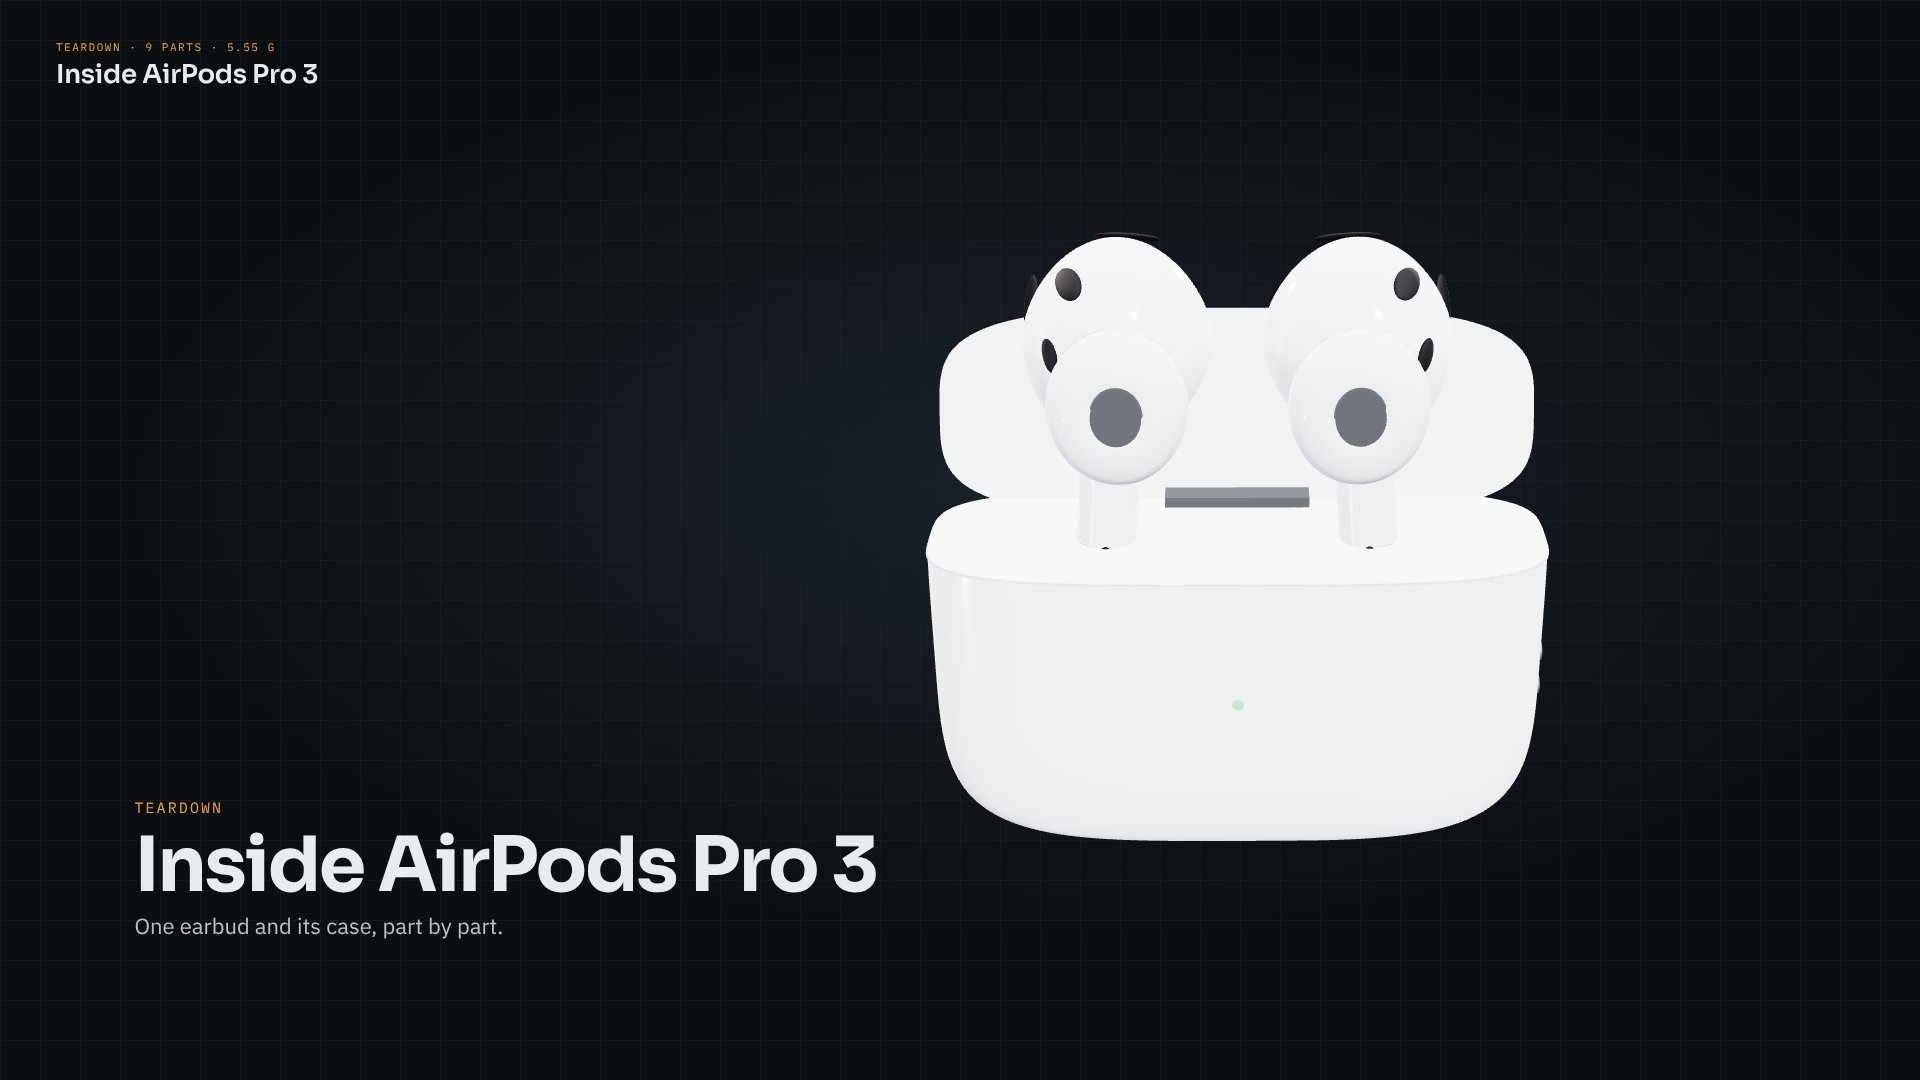
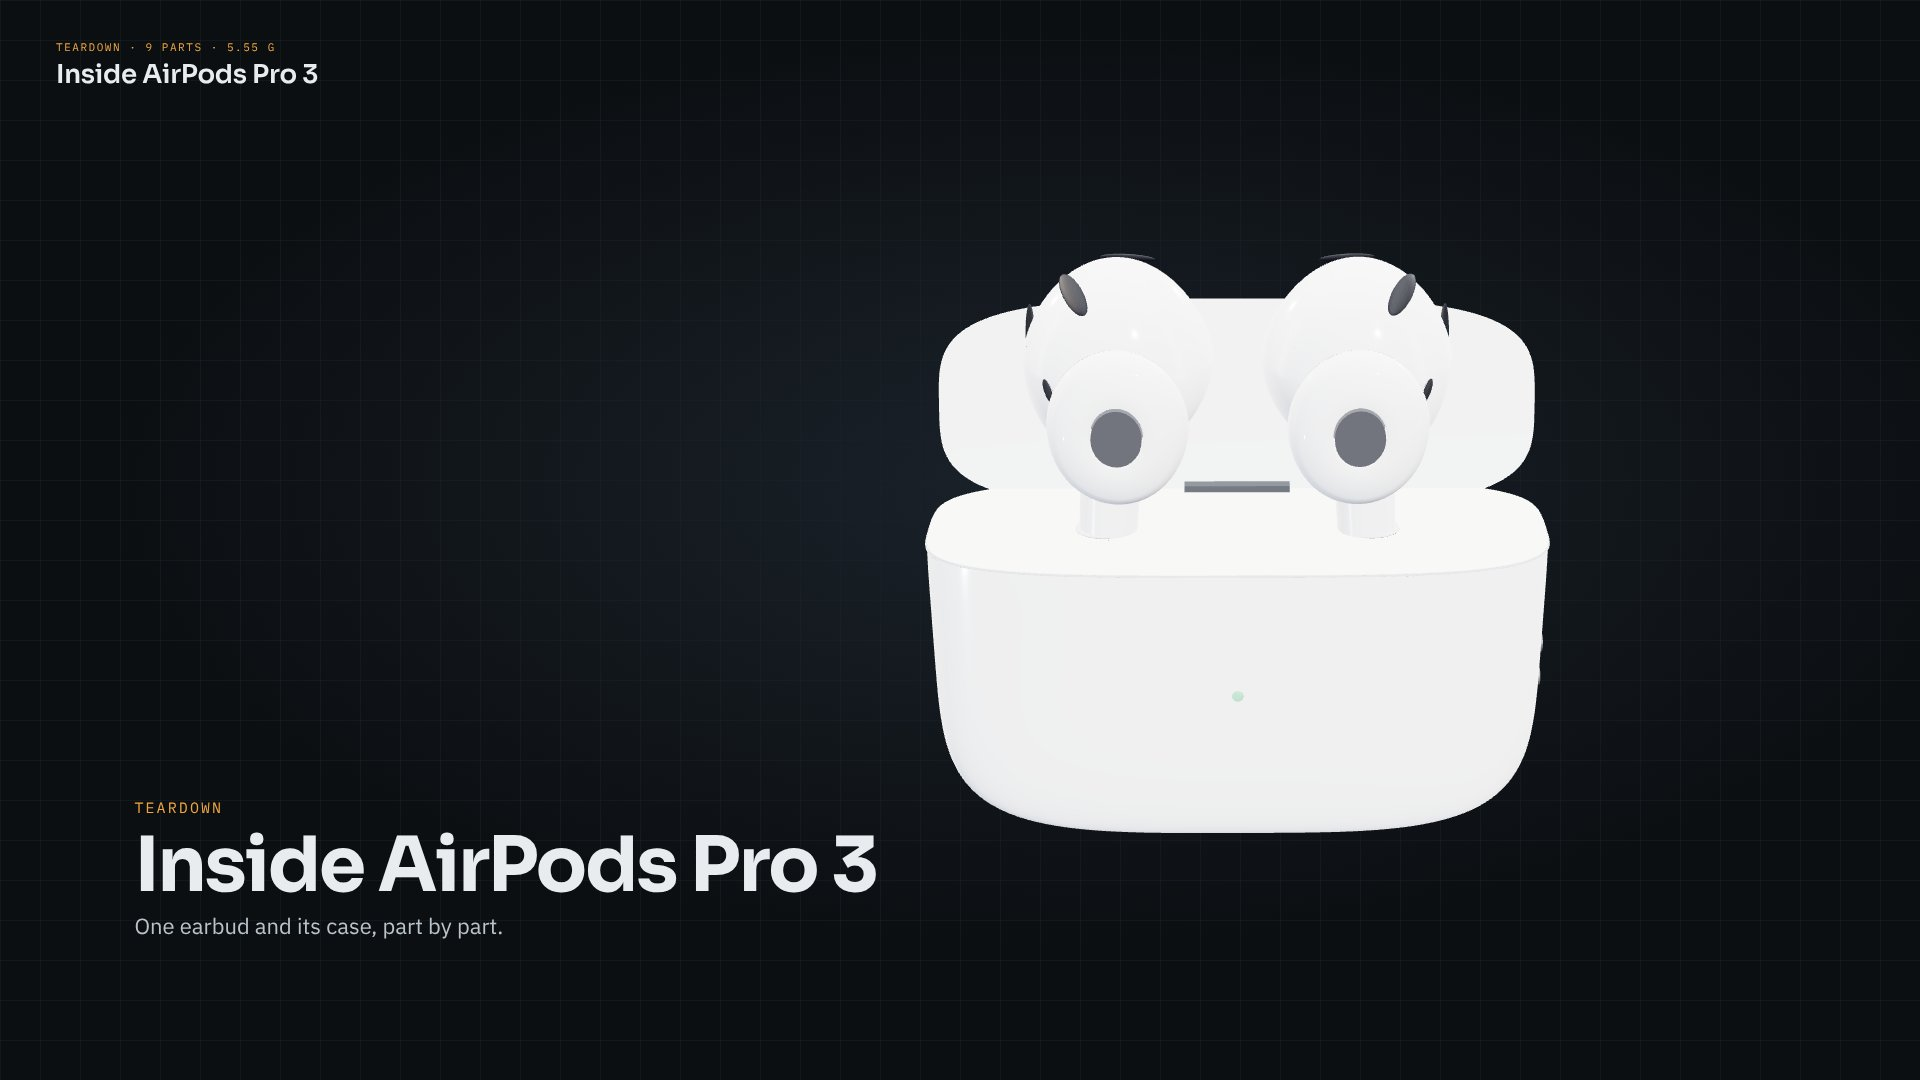
AirPods Pro 3 explorer: true 30.9 mm bud height, mesh-pill grilles, stem fillet, slimmer tip ring and hinge
Claude-Session: https://claude.ai/code/session_01GXcKc2DgGjDxQqSNnxqxZ7

diff --git a/phone-teardown/airpods-pro-3-teardown.html b/phone-teardown/airpods-pro-3-teardown.html
@@ -361,16 +361,16 @@ const GRILLE = () => std(0x1a1b1f, 0.4, 0.55);
 const GOLD = () => std(0xd2a94e, 1, 0.3);
 const FLEX = () => std(0xd99a3a, 0.15, 0.45, { side: THREE.DoubleSide });
 const SILVER = () => std(0xd5d9de, 1, 0.16);
-const meshTex = canvasTex(256, 256, (x, w, h) => { x.fillStyle = '#121316'; x.fillRect(0, 0, w, h); x.fillStyle = '#3a3c42'; for (let j = 0; j < 32; j++) for (let i = 0; i < 32; i++) { x.beginPath(); x.arc(i * 8 + (j % 2) * 4 + 2, j * 8 + 2, 1.6, 0, Math.PI * 2); x.fill(); } });
+const meshTex = canvasTex(256, 256, (x, w, h) => { x.fillStyle = '#26282d'; x.fillRect(0, 0, w, h); x.fillStyle = '#4d5058'; for (let j = 0; j < 32; j++) for (let i = 0; i < 32; i++) { x.beginPath(); x.arc(i * 8 + (j % 2) * 4 + 2, j * 8 + 2, 1.6, 0, Math.PI * 2); x.fill(); } });
 meshTex.wrapS = meshTex.wrapT = THREE.RepeatWrapping; meshTex.repeat.set(2, 2);
-const MESH = () => std(0xffffff, 0.3, 0.6, { map: meshTex });
+const MESH = () => std(0xd8dade, 0.25, 0.55, { map: meshTex });
 
 /* lid + bud controls */
 const CTRL = { lid: 1, lidGoal: 1, out: 1, outGoal: 1 };
 { const q = new URLSearchParams(location.search).get('state') || ''; if (q.includes('closed')) CTRL.lid = CTRL.lidGoal = 0; if (q.includes('in')) CTRL.out = CTRL.outGoal = 0; }
 let LID_HINGE = null, LEFT_BUD = null, LEFT_X = 0, LEFT_Y = 0, LEFT_Z = 0;
 const BUD_IDS = new Set(['tip', 'sensor', 'driver', 'shell', 'board', 'battery', 'stem']);
-const BUD_DROP = -18, BUD_TURN = 0.95, BUD_TILT = 0.8, BUD_BACK = -3.5;
+const BUD_DROP = -16, BUD_TURN = 0.95, BUD_TILT = 0.8, BUD_BACK = -3.5;
 const _q = new THREE.Quaternion(), _e = new THREE.Euler(), _pv = new THREE.Vector3();
 function rotAbout(obj, pivot, ex, ey) {   // rotate obj about a pivot given in its own (unrotated) frame
   _q.setFromEuler(_e.set(ex, ey, 0)); obj.quaternion.copy(_q);
@@ -405,26 +405,27 @@ function patch(parent, dir, sx, sy, mat, rot = 0) {
 }
 /* stem frame: top tucked into the head, leaning down and slightly forward */
 function stemFrame(parent) { const f = new THREE.Group(); f.position.set(0.6, HEAD.y - 5.0, 0.6); f.rotation.set(-0.05, 0, 0.06); parent.add(f); return f; }
-const STEM_L = 20.5;
+const STEM_L = 17.0;   // total bud height ≈ 30.9 mm, per Apple's spec
 function stemShell(f, mat) {
-  const prof = [[0.01, 0], [2.2, 0.05], [2.75, 0.6], [2.9, 2], [3.0, 10], [3.3, 16], [3.9, 19.6], [4.4, STEM_L + 1.5], [0.01, STEM_L + 1.5]];
+  const L = STEM_L, prof = [[0.01, 0], [2.2, 0.05], [2.75, 0.6], [2.9, 2], [3.0, 0.5 * L], [3.25, 0.78 * L], [3.9, L - 0.6], [4.4, L + 1.5], [0.01, L + 1.5]];
   const geo = new THREE.LatheGeometry(prof.map(([r, y]) => new THREE.Vector2(r, y)), 64); geo.translate(0, -STEM_L, 0);
   const m = mesh(geo, mat, 0, 0, 0, f); m.scale.set(1, 1, 0.84);
   const cap = yCyl(2.45, 0.5, SILVER(), 0, -STEM_L + 0.2, 0, f); cap.scale.set(1, 1, 0.84);
   ell(0.9, 0.3, 0.55, GRILLE(), 0, -STEM_L - 0.05, 0, f, 24);
-  const fm = ell(0.75, 1.3, 0.3, MESH(), 0, -STEM_L + 3.2, 2.48, f, 24);  // bottom mic port on the front
+  const fm = ell(0.55, 1.1, 0.3, MESH(), 0, -STEM_L + 2.6, 2.46, f, 24);  // bottom mic port on the front
   return m;
 }
 function budOuter(parent, withTip = true) {
   const w = WHITE();
   mesh(headGeo(), w, HEAD.x, HEAD.y, HEAD.z, parent);
   const noz = mesh(cyl(3.4, 4.0, 64), w, HEAD.x - 0.6, HEAD.y - 1.4, 8.6, parent); noz.scale.set(1, 1.15, 1);
-  const ring = mesh(cyl(3.55, 0.7, 64), SILVER(), HEAD.x - 0.6, HEAD.y - 1.4, 10.3, parent); ring.scale.set(1, 1.15, 1);
-  patch(parent, [0.42, 0.66, 0.5], 2.0, 1.25, MESH(), 0.6);      // top mic grille, top-front
-  patch(parent, [-0.1, 0.9, -0.42], 3.4, 1.7, MESH(), 0.15);      // rear grille
-  patch(parent, [0.92, 0.2, -0.32], 1.3, 3.8, MESH(), 0.2);       // side vent
-  patch(parent, [0.62, 0.05, 0.72], 0.9, 1.7, MESH(), -0.3);      // front vent by the nozzle
-  stemShell(stemFrame(parent), w);
+  const ring = mesh(cyl(3.5, 0.42, 64), std(0xc3c8ce, 0.9, 0.3), HEAD.x - 0.6, HEAD.y - 1.4, 10.4, parent); ring.scale.set(1, 1.15, 1);
+  patch(parent, [0.38, 0.72, 0.42], 3.1, 0.95, MESH(), 0.55);    // top mic grille, top-front
+  patch(parent, [-0.1, 0.88, -0.45], 2.8, 1.0, MESH(), 0.1);      // rear grille
+  patch(parent, [0.93, 0.12, -0.3], 0.75, 3.6, MESH(), 0.2);      // side vent, long thin pill
+  patch(parent, [0.66, -0.12, 0.7], 0.5, 1.3, MESH(), -0.35);     // small front vent by the nozzle
+  const sf = stemFrame(parent); stemShell(sf, w);
+  ell(4.0, 4.4, 3.5, w, 0, -0.6, 0.1, sf, 48);   // smooth fillet where the stem grows out of the head
   if (withTip) tipMesh(parent);
 }
 function tipMesh(parent) {
@@ -495,17 +496,17 @@ addPart('battery', [0, 4, -32], { az: 2.7, el: 0.35, k: 2.0 }, [0, 13.8, -5.6], 
 /* 7. Stem board: mics, touch strip, charging contacts (slides out the bottom) */
 addPart('stem', [3, -24, 0], { az: 0.6, el: 0.15, k: 1.5 }, [5.2, -10.5, 2.0], g => {
   const f = stemFrame(g);
-  mesh(extrude(rrShape(3.0, 17, 1.2), 0.8, 0.1, 12), std(0x10201a, 0.2, 0.42), 0, -9.5, -0.3, f);
+  mesh(extrude(rrShape(3.0, 13.5, 1.2), 0.8, 0.1, 12), std(0x10201a, 0.2, 0.42), 0, -7.9, -0.3, f);
   const can = std(0x9aa0a8, 1, 0.3);
-  mesh(cyl(0.9, 1.0, 24), can, 0, -16.6, 0.7, f); mesh(cyl(0.9, 1.0, 24), can, 0, -3.0, 0.7, f);
-  box(2.4, 9, 0.15, FLEX(), 0, -9.5, 0.95, f);
-    const mic = chipOn(f, 1.6, 1.6, 0.4, [['MIC', 60]], 0, -12.6, 0.45);
-  const contact = yCyl(1.8, 0.8, std(0xd8dde2, 1, 0.18), 0, -19.4, -0.2, f); contact.scale.set(1, 1, 0.75);
-  box(0.35, 15, 0.1, GOLD(), 1.15, -9.5, -0.75, f);
+  mesh(cyl(0.9, 1.0, 24), can, 0, -13.4, 0.7, f); mesh(cyl(0.9, 1.0, 24), can, 0, -2.6, 0.7, f);
+  box(2.4, 7.5, 0.15, FLEX(), 0, -7.9, 0.95, f);
+    const mic = chipOn(f, 1.6, 1.6, 0.4, [['MIC', 60]], 0, -10.4, 0.45);
+  const contact = yCyl(1.8, 0.8, std(0xd8dde2, 1, 0.18), 0, -15.9, -0.2, f); contact.scale.set(1, 1, 0.75);
+  box(0.35, 12, 0.1, GOLD(), 1.15, -7.9, -0.75, f);
 });
 
 /* 8. MagSafe charging case, lid open, with the left earbud resting above it */
-const CASE = new THREE.Vector3(-11.6, -29.5, 0.8), BODY_H = 33, LID_H = 14.2, CW = 62.2, CD = 21.8;
+const CASE = new THREE.Vector3(-11.6, -26.5, 0.8), BODY_H = 33, LID_H = 14.2, CW = 62.2, CD = 21.8;
 function caseShape(w, h, rb, rt) {   // rounded rectangle with different bottom / top corner radii
   const s = new THREE.Shape(), x = -w / 2, y = -h / 2;
   s.moveTo(x + rb, y); s.lineTo(x + w - rb, y); s.absarc(x + w - rb, y + rb, rb, -Math.PI / 2, 0);
@@ -545,7 +546,7 @@ addPart('case', [76, -4, -2], { az: -0.4, el: 0.3, k: 1.25 }, [CASE.x - 24, CASE
     const well = mesh(extrude(rrShape(20, 13.5, 6), 1.0, 0.45, 24), std(0xc6cad0, 0, 0.6), CASE.x + sx * 13.4, top - 0.62, CASE.z + 0.6, g); well.rotation.x = -Math.PI / 2;
     ell(2.9, 0.35, 2.4, std(0x9a9fa6, 0, 0.6), CASE.x + sx * 13.4, top + 0.1, CASE.z + 0.6, g, 32);
   }
-  box(15, 1.6, 2.6, SILVER(), CASE.x, top + 0.3, CASE.z - PC + 3.2, g);   // hinge
+  box(11, 0.9, 1.4, SILVER(), CASE.x, top + 0.25, CASE.z - PC + 2.2, g);   // hinge
   // lid: the top slice of the same pebble, hinged at the back and swung open
   const hinge = new THREE.Group(); hinge.position.set(CASE.x, top, CASE.z - PC + 2.0); hinge.rotation.x = -1.92; g.add(hinge);
   LID_HINGE = hinge;
@@ -665,9 +666,9 @@ const segs = [];
 let tAcc = 0;
 function seg(o) { o.start = tAcc; tAcc += o.dur; segs.push(o); }
 seg({ kind: 'intro', dur: 4.5, focus: -1, explode: () => 0,
-  pose: t => ({ target: new THREE.Vector3(-11.6, -14, 0), az: -0.2 + 0.4 * t, el: 0.46, dist: 205, shift: 0.85 }), labels: () => 0, title: t => ['intro', clamp01(Math.min(t * 4.5 / 0.8, (1 - t) * 4.5 / 0.8))] });
+  pose: t => ({ target: new THREE.Vector3(-11.6, -12, 0), az: -0.2 + 0.4 * t, el: 0.46, dist: 205, shift: 0.85 }), labels: () => 0, title: t => ['intro', clamp01(Math.min(t * 4.5 / 0.8, (1 - t) * 4.5 / 0.8))] });
 seg({ kind: 'explode', dur: 4.5, focus: -1, explode: t => ease(clamp01(t * 1.15)),
-  pose: t => lerpPose({ target: new THREE.Vector3(-11.6, -14, 0), az: 0.2, el: 0.46, dist: 205, shift: 0.85 }, OVERVIEW, ease(t)), labels: t => clamp01((t - 0.75) / 0.25) });
+  pose: t => lerpPose({ target: new THREE.Vector3(-11.6, -12, 0), az: 0.2, el: 0.46, dist: 205, shift: 0.85 }, OVERVIEW, ease(t)), labels: t => clamp01((t - 0.75) / 0.25) });
 seg({ kind: 'overview', dur: 3.5, focus: -1, explode: () => 1,
   pose: t => Object.assign(clonePose(OVERVIEW), { az: OVERVIEW.az + 0.12 * t }), labels: () => 1 });
 parts.forEach((p, i) => seg({ kind: 'part', dur: PART_DUR, focus: i, explode: () => 1, pose: t => partPose(p, 0.16 * t - 0.08), labels: () => 0, card: true }));
@@ -757,7 +758,7 @@ document.getElementById('next').addEventListener('click', () => select((selected
 document.getElementById('overview').addEventListener('click', () => { select(-1); goalExplode = 1; slider.value = 1; });
 slider.addEventListener('input', () => { stopTour(); goalExplode = +slider.value; });
 const lidBtn = document.getElementById('lidBtn'), budBtn = document.getElementById('budBtn');
-function showOnCase() { select(-1); goalExplode = 0; slider.value = 0; goal = { target: new THREE.Vector3(-11.6, -14, 0), az: 0.25, el: 0.42, dist: 205, shift: 0 }; }
+function showOnCase() { select(-1); goalExplode = 0; slider.value = 0; goal = { target: new THREE.Vector3(-11.6, -12, 0), az: 0.25, el: 0.42, dist: 205, shift: 0 }; }
 lidBtn.addEventListener('click', () => { showOnCase(); CTRL.lidGoal = CTRL.lidGoal ? 0 : 1; lidBtn.textContent = CTRL.lidGoal ? 'Close lid' : 'Open lid'; });
 budBtn.addEventListener('click', () => { showOnCase(); CTRL.outGoal = CTRL.outGoal ? 0 : 1; budBtn.textContent = CTRL.outGoal ? 'Buds in' : 'Buds out'; });
 

diff --git a/phone-teardown/build-airpods.py b/phone-teardown/build-airpods.py
@@ -72,16 +72,16 @@ const GRILLE = () => std(0x1a1b1f, 0.4, 0.55);
 const GOLD = () => std(0xd2a94e, 1, 0.3);
 const FLEX = () => std(0xd99a3a, 0.15, 0.45, { side: THREE.DoubleSide });
 const SILVER = () => std(0xd5d9de, 1, 0.16);
-const meshTex = canvasTex(256, 256, (x, w, h) => { x.fillStyle = '#121316'; x.fillRect(0, 0, w, h); x.fillStyle = '#3a3c42'; for (let j = 0; j < 32; j++) for (let i = 0; i < 32; i++) { x.beginPath(); x.arc(i * 8 + (j % 2) * 4 + 2, j * 8 + 2, 1.6, 0, Math.PI * 2); x.fill(); } });
+const meshTex = canvasTex(256, 256, (x, w, h) => { x.fillStyle = '#26282d'; x.fillRect(0, 0, w, h); x.fillStyle = '#4d5058'; for (let j = 0; j < 32; j++) for (let i = 0; i < 32; i++) { x.beginPath(); x.arc(i * 8 + (j % 2) * 4 + 2, j * 8 + 2, 1.6, 0, Math.PI * 2); x.fill(); } });
 meshTex.wrapS = meshTex.wrapT = THREE.RepeatWrapping; meshTex.repeat.set(2, 2);
-const MESH = () => std(0xffffff, 0.3, 0.6, { map: meshTex });
+const MESH = () => std(0xd8dade, 0.25, 0.55, { map: meshTex });
 
 /* lid + bud controls */
 const CTRL = { lid: 1, lidGoal: 1, out: 1, outGoal: 1 };
 { const q = new URLSearchParams(location.search).get('state') || ''; if (q.includes('closed')) CTRL.lid = CTRL.lidGoal = 0; if (q.includes('in')) CTRL.out = CTRL.outGoal = 0; }
 let LID_HINGE = null, LEFT_BUD = null, LEFT_X = 0, LEFT_Y = 0, LEFT_Z = 0;
 const BUD_IDS = new Set(['tip', 'sensor', 'driver', 'shell', 'board', 'battery', 'stem']);
-const BUD_DROP = -18, BUD_TURN = 0.95, BUD_TILT = 0.8, BUD_BACK = -3.5;
+const BUD_DROP = -16, BUD_TURN = 0.95, BUD_TILT = 0.8, BUD_BACK = -3.5;
 const _q = new THREE.Quaternion(), _e = new THREE.Euler(), _pv = new THREE.Vector3();
 function rotAbout(obj, pivot, ex, ey) {   // rotate obj about a pivot given in its own (unrotated) frame
   _q.setFromEuler(_e.set(ex, ey, 0)); obj.quaternion.copy(_q);
@@ -116,26 +116,27 @@ function patch(parent, dir, sx, sy, mat, rot = 0) {
 }
 /* stem frame: top tucked into the head, leaning down and slightly forward */
 function stemFrame(parent) { const f = new THREE.Group(); f.position.set(0.6, HEAD.y - 5.0, 0.6); f.rotation.set(-0.05, 0, 0.06); parent.add(f); return f; }
-const STEM_L = 20.5;
+const STEM_L = 17.0;   // total bud height ≈ 30.9 mm, per Apple's spec
 function stemShell(f, mat) {
-  const prof = [[0.01, 0], [2.2, 0.05], [2.75, 0.6], [2.9, 2], [3.0, 10], [3.3, 16], [3.9, 19.6], [4.4, STEM_L + 1.5], [0.01, STEM_L + 1.5]];
+  const L = STEM_L, prof = [[0.01, 0], [2.2, 0.05], [2.75, 0.6], [2.9, 2], [3.0, 0.5 * L], [3.25, 0.78 * L], [3.9, L - 0.6], [4.4, L + 1.5], [0.01, L + 1.5]];
   const geo = new THREE.LatheGeometry(prof.map(([r, y]) => new THREE.Vector2(r, y)), 64); geo.translate(0, -STEM_L, 0);
   const m = mesh(geo, mat, 0, 0, 0, f); m.scale.set(1, 1, 0.84);
   const cap = yCyl(2.45, 0.5, SILVER(), 0, -STEM_L + 0.2, 0, f); cap.scale.set(1, 1, 0.84);
   ell(0.9, 0.3, 0.55, GRILLE(), 0, -STEM_L - 0.05, 0, f, 24);
-  const fm = ell(0.75, 1.3, 0.3, MESH(), 0, -STEM_L + 3.2, 2.48, f, 24);  // bottom mic port on the front
+  const fm = ell(0.55, 1.1, 0.3, MESH(), 0, -STEM_L + 2.6, 2.46, f, 24);  // bottom mic port on the front
   return m;
 }
 function budOuter(parent, withTip = true) {
   const w = WHITE();
   mesh(headGeo(), w, HEAD.x, HEAD.y, HEAD.z, parent);
   const noz = mesh(cyl(3.4, 4.0, 64), w, HEAD.x - 0.6, HEAD.y - 1.4, 8.6, parent); noz.scale.set(1, 1.15, 1);
-  const ring = mesh(cyl(3.55, 0.7, 64), SILVER(), HEAD.x - 0.6, HEAD.y - 1.4, 10.3, parent); ring.scale.set(1, 1.15, 1);
-  patch(parent, [0.42, 0.66, 0.5], 2.0, 1.25, MESH(), 0.6);      // top mic grille, top-front
-  patch(parent, [-0.1, 0.9, -0.42], 3.4, 1.7, MESH(), 0.15);      // rear grille
-  patch(parent, [0.92, 0.2, -0.32], 1.3, 3.8, MESH(), 0.2);       // side vent
-  patch(parent, [0.62, 0.05, 0.72], 0.9, 1.7, MESH(), -0.3);      // front vent by the nozzle
-  stemShell(stemFrame(parent), w);
+  const ring = mesh(cyl(3.5, 0.42, 64), std(0xc3c8ce, 0.9, 0.3), HEAD.x - 0.6, HEAD.y - 1.4, 10.4, parent); ring.scale.set(1, 1.15, 1);
+  patch(parent, [0.38, 0.72, 0.42], 3.1, 0.95, MESH(), 0.55);    // top mic grille, top-front
+  patch(parent, [-0.1, 0.88, -0.45], 2.8, 1.0, MESH(), 0.1);      // rear grille
+  patch(parent, [0.93, 0.12, -0.3], 0.75, 3.6, MESH(), 0.2);      // side vent, long thin pill
+  patch(parent, [0.66, -0.12, 0.7], 0.5, 1.3, MESH(), -0.35);     // small front vent by the nozzle
+  const sf = stemFrame(parent); stemShell(sf, w);
+  ell(4.0, 4.4, 3.5, w, 0, -0.6, 0.1, sf, 48);   // smooth fillet where the stem grows out of the head
   if (withTip) tipMesh(parent);
 }
 function tipMesh(parent) {
@@ -206,17 +207,17 @@ addPart('battery', [0, 4, -32], { az: 2.7, el: 0.35, k: 2.0 }, [0, 13.8, -5.6], 
 /* 7. Stem board: mics, touch strip, charging contacts (slides out the bottom) */
 addPart('stem', [3, -24, 0], { az: 0.6, el: 0.15, k: 1.5 }, [5.2, -10.5, 2.0], g => {
   const f = stemFrame(g);
-  mesh(extrude(rrShape(3.0, 17, 1.2), 0.8, 0.1, 12), std(0x10201a, 0.2, 0.42), 0, -9.5, -0.3, f);
+  mesh(extrude(rrShape(3.0, 13.5, 1.2), 0.8, 0.1, 12), std(0x10201a, 0.2, 0.42), 0, -7.9, -0.3, f);
   const can = std(0x9aa0a8, 1, 0.3);
-  mesh(cyl(0.9, 1.0, 24), can, 0, -16.6, 0.7, f); mesh(cyl(0.9, 1.0, 24), can, 0, -3.0, 0.7, f);
-  box(2.4, 9, 0.15, FLEX(), 0, -9.5, 0.95, f);
-    const mic = chipOn(f, 1.6, 1.6, 0.4, [['MIC', 60]], 0, -12.6, 0.45);
-  const contact = yCyl(1.8, 0.8, std(0xd8dde2, 1, 0.18), 0, -19.4, -0.2, f); contact.scale.set(1, 1, 0.75);
-  box(0.35, 15, 0.1, GOLD(), 1.15, -9.5, -0.75, f);
+  mesh(cyl(0.9, 1.0, 24), can, 0, -13.4, 0.7, f); mesh(cyl(0.9, 1.0, 24), can, 0, -2.6, 0.7, f);
+  box(2.4, 7.5, 0.15, FLEX(), 0, -7.9, 0.95, f);
+    const mic = chipOn(f, 1.6, 1.6, 0.4, [['MIC', 60]], 0, -10.4, 0.45);
+  const contact = yCyl(1.8, 0.8, std(0xd8dde2, 1, 0.18), 0, -15.9, -0.2, f); contact.scale.set(1, 1, 0.75);
+  box(0.35, 12, 0.1, GOLD(), 1.15, -7.9, -0.75, f);
 });
 
 /* 8. MagSafe charging case, lid open, with the left earbud resting above it */
-const CASE = new THREE.Vector3(-11.6, -29.5, 0.8), BODY_H = 33, LID_H = 14.2, CW = 62.2, CD = 21.8;
+const CASE = new THREE.Vector3(-11.6, -26.5, 0.8), BODY_H = 33, LID_H = 14.2, CW = 62.2, CD = 21.8;
 function caseShape(w, h, rb, rt) {   // rounded rectangle with different bottom / top corner radii
   const s = new THREE.Shape(), x = -w / 2, y = -h / 2;
   s.moveTo(x + rb, y); s.lineTo(x + w - rb, y); s.absarc(x + w - rb, y + rb, rb, -Math.PI / 2, 0);
@@ -256,7 +257,7 @@ addPart('case', [76, -4, -2], { az: -0.4, el: 0.3, k: 1.25 }, [CASE.x - 24, CASE
     const well = mesh(extrude(rrShape(20, 13.5, 6), 1.0, 0.45, 24), std(0xc6cad0, 0, 0.6), CASE.x + sx * 13.4, top - 0.62, CASE.z + 0.6, g); well.rotation.x = -Math.PI / 2;
     ell(2.9, 0.35, 2.4, std(0x9a9fa6, 0, 0.6), CASE.x + sx * 13.4, top + 0.1, CASE.z + 0.6, g, 32);
   }
-  box(15, 1.6, 2.6, SILVER(), CASE.x, top + 0.3, CASE.z - PC + 3.2, g);   // hinge
+  box(11, 0.9, 1.4, SILVER(), CASE.x, top + 0.25, CASE.z - PC + 2.2, g);   // hinge
   // lid: the top slice of the same pebble, hinged at the back and swung open
   const hinge = new THREE.Group(); hinge.position.set(CASE.x, top, CASE.z - PC + 2.0); hinge.rotation.x = -1.92; g.add(hinge);
   LID_HINGE = hinge;
@@ -313,8 +314,8 @@ reps = [
  ("const OVERVIEW = { target: new THREE.Vector3(0, 0, 0), az: 0.92, el: 0.26, dist: 390, shift: 0 };", "const OVERVIEW = { target: new THREE.Vector3(28, -26, 0), az: -0.55, el: 0.2, dist: 340, shift: 0 };"),
  ("const ASSEMBLED = { target: new THREE.Vector3(0, 0, 0), az: 0.45, el: 0.12, dist: 330, shift: 0 };", ""),
  ("const dist = Math.max(p.radius / Math.sin(FOV / 2) * p.view.k, 70);", "const dist = Math.max(p.radius / Math.sin(FOV / 2) * p.view.k, 28);"),
- ("pose: t => ({ target: new THREE.Vector3(0, 0, 0), az: -0.5 + 0.85 * t, el: 0.1, dist: 300, shift: 0.85 })", "pose: t => ({ target: new THREE.Vector3(-11.6, -14, 0), az: -0.2 + 0.4 * t, el: 0.46, dist: 205, shift: 0.85 })"),
- ("{ target: new THREE.Vector3(0, 0, 0), az: 0.35, el: 0.1, dist: 300, shift: 0.85 }, OVERVIEW", "{ target: new THREE.Vector3(-11.6, -14, 0), az: 0.2, el: 0.46, dist: 205, shift: 0.85 }, OVERVIEW"),
+ ("pose: t => ({ target: new THREE.Vector3(0, 0, 0), az: -0.5 + 0.85 * t, el: 0.1, dist: 300, shift: 0.85 })", "pose: t => ({ target: new THREE.Vector3(-11.6, -12, 0), az: -0.2 + 0.4 * t, el: 0.46, dist: 205, shift: 0.85 })"),
+ ("{ target: new THREE.Vector3(0, 0, 0), az: 0.35, el: 0.1, dist: 300, shift: 0.85 }, OVERVIEW", "{ target: new THREE.Vector3(-11.6, -12, 0), az: 0.2, el: 0.46, dist: 205, shift: 0.85 }, OVERVIEW"),
  ("az: 1.45 + 2.2 * ease(t), el: 0.14, dist: 330, shift: 0.85 * ease(t) })", "az: 1.45 + 2.0 * ease(t), el: 0.22, dist: 210, shift: 0.85 * ease(t) })"),
  ("{ dist: 450, shift: -0.4 } : { dist: 760, shift: 0.15 }", "{ dist: 300, shift: -0.4 } : { dist: 470, shift: 0.15 }"),
  ("goal.dist = Math.max(40, Math.min(900, dist0 * pinch0 / d))", "goal.dist = Math.max(18, Math.min(700, dist0 * pinch0 / d))"),
@@ -337,7 +338,7 @@ src = src.replace('<input type="range" id="explode" min="0" max="1" step="0.01" 
 src = src.replace("slider.addEventListener('input', () => { stopTour(); goalExplode = +slider.value; });",
   """slider.addEventListener('input', () => { stopTour(); goalExplode = +slider.value; });
 const lidBtn = document.getElementById('lidBtn'), budBtn = document.getElementById('budBtn');
-function showOnCase() { select(-1); goalExplode = 0; slider.value = 0; goal = { target: new THREE.Vector3(-11.6, -14, 0), az: 0.25, el: 0.42, dist: 205, shift: 0 }; }
+function showOnCase() { select(-1); goalExplode = 0; slider.value = 0; goal = { target: new THREE.Vector3(-11.6, -12, 0), az: 0.25, el: 0.42, dist: 205, shift: 0 }; }
 lidBtn.addEventListener('click', () => { showOnCase(); CTRL.lidGoal = CTRL.lidGoal ? 0 : 1; lidBtn.textContent = CTRL.lidGoal ? 'Close lid' : 'Open lid'; });
 budBtn.addEventListener('click', () => { showOnCase(); CTRL.outGoal = CTRL.outGoal ? 0 : 1; budBtn.textContent = CTRL.outGoal ? 'Buds in' : 'Buds out'; });""")
 for need in ["applyExtras(e); }", "CTRL.lid += (CTRL.lidGoal", 'id="lidBtn"', "budBtn.addEventListener"]:
